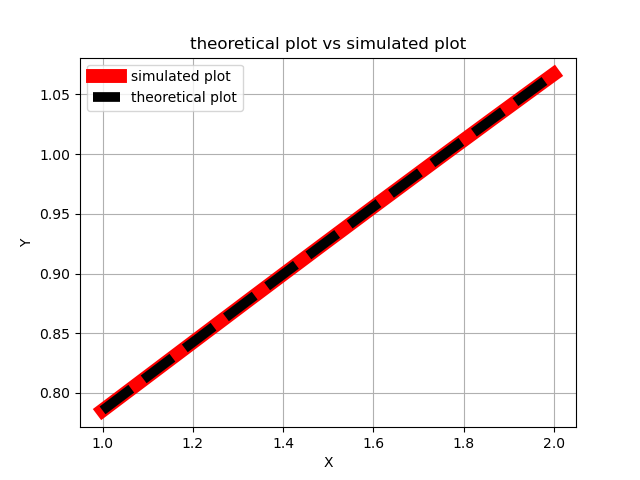
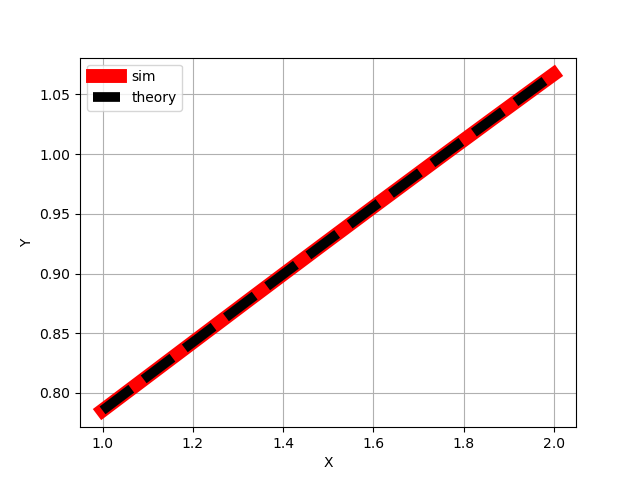
update

Changed region(s): [[0.25, 0.0625, 0.7188, 0.2188], [0.1875, 0.1875, 0.2188, 0.2188]]

diff --git a/assgn1/codes/9.5.13.py b/assgn1/codes/9.5.13.py
@@ -27,13 +27,12 @@ def function(x):
 y = function(xcoords)
 
 # plotting both the graphs
-plt.plot(xcoords,ycoords,label="simulated plot",color='r',linewidth = 10) # plotting simulated graph
-plt.plot(xcoords,y,label="theoretical plot",color='k',linestyle = "--" ,linewidth = 7) #  plotting theoretical graph
+plt.plot(xcoords,ycoords,label="sim",color='r',linewidth = 10) # plotting simulated graph
+plt.plot(xcoords,y,label="theory",color='k',linestyle = "--" ,linewidth = 7) #  plotting theoretical graph
 
 #labelling the two perpendicular axes
 plt.xlabel('X')
 plt.ylabel('Y')
-plt.title('theoretical plot vs simulated plot')
 plt.legend()
 # To get a grid
 plt.grid(True)
